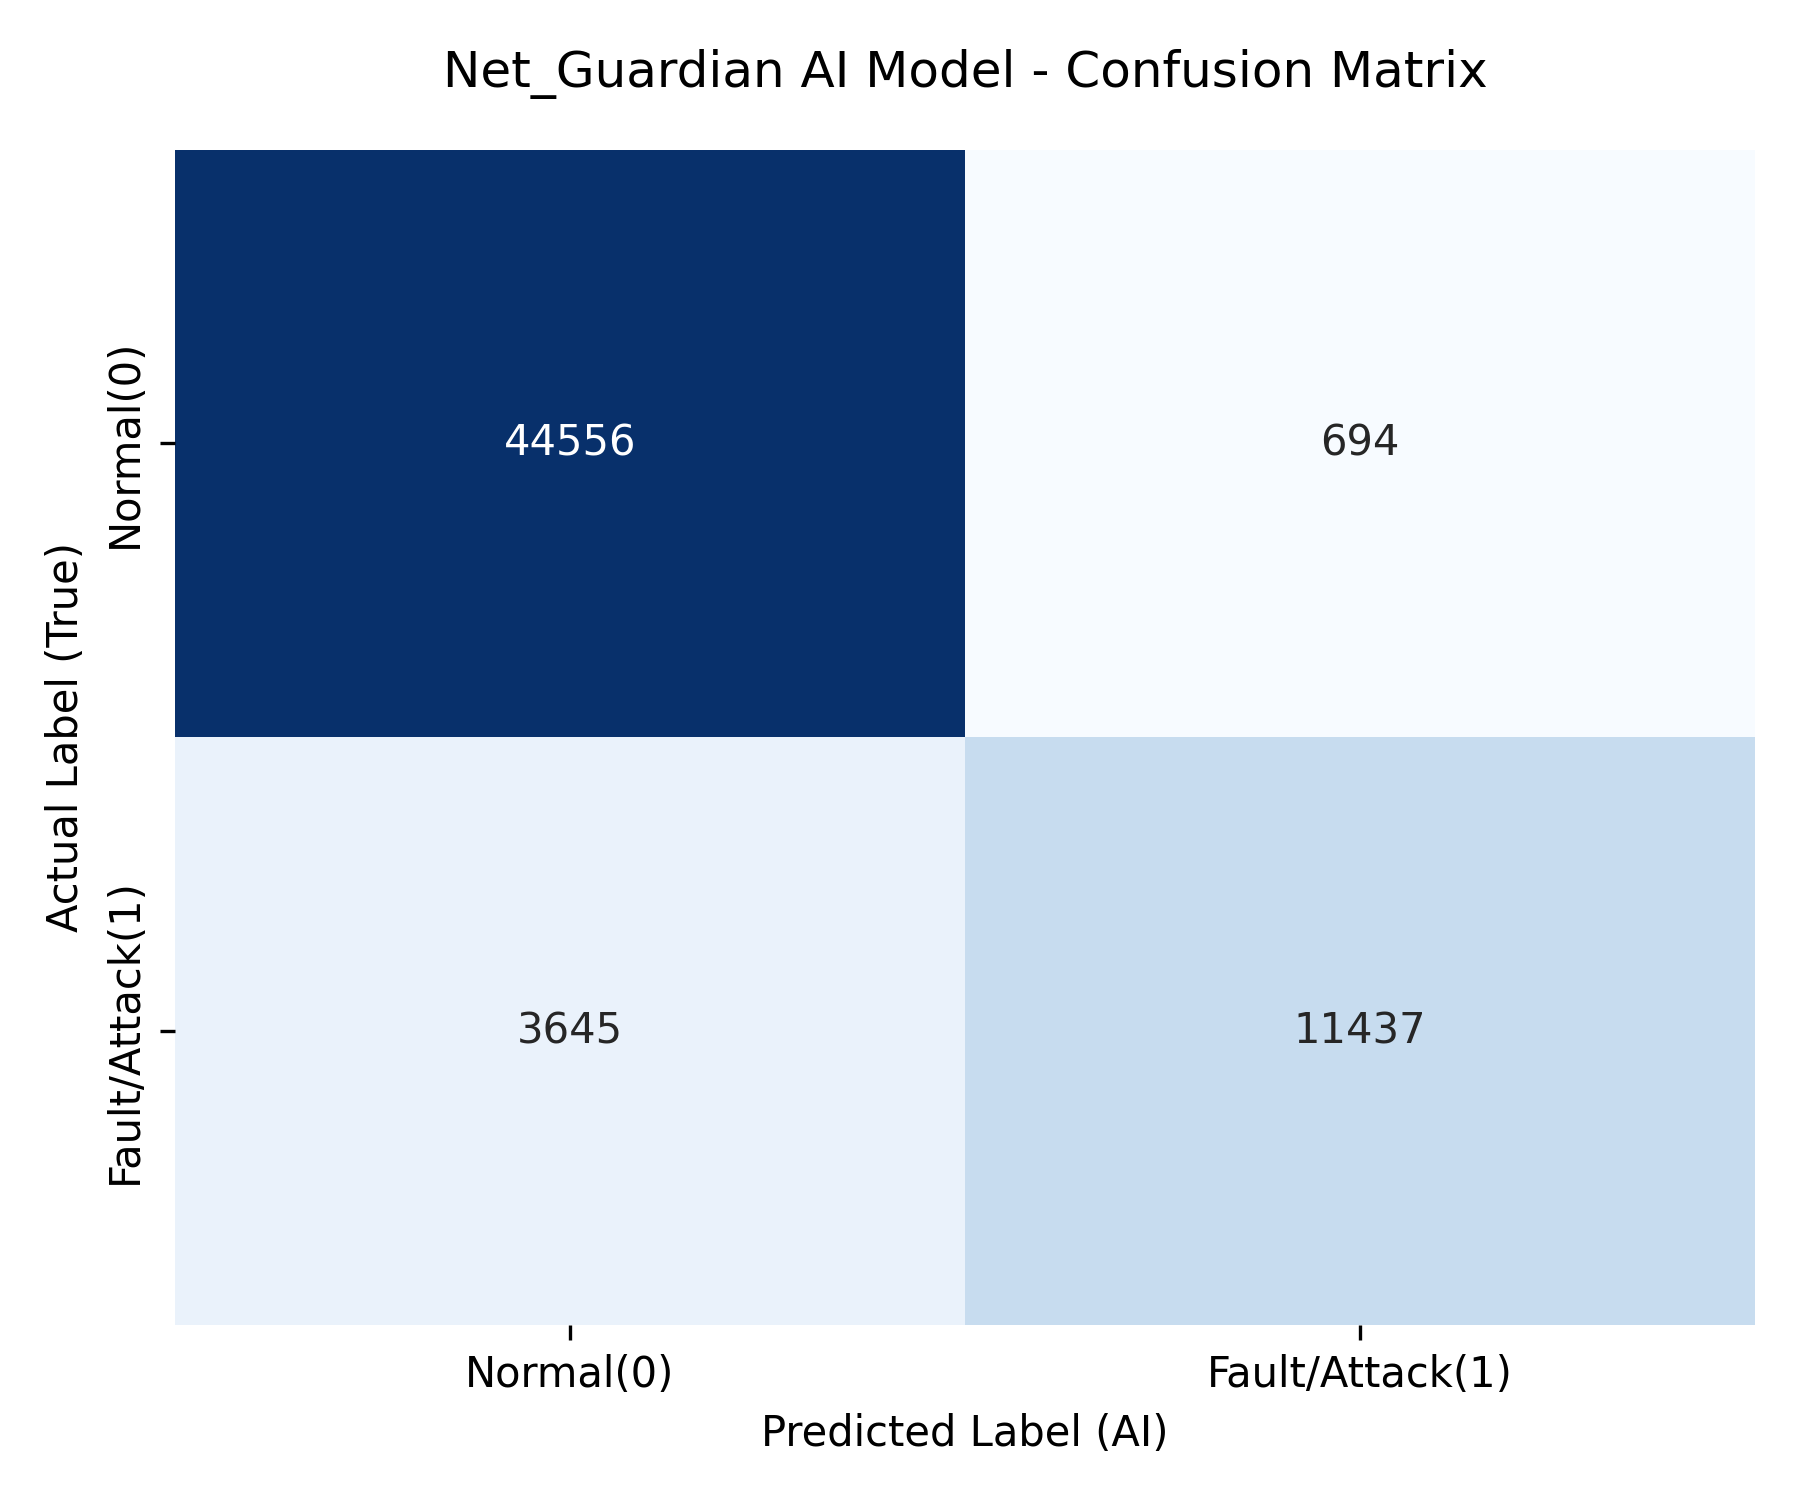
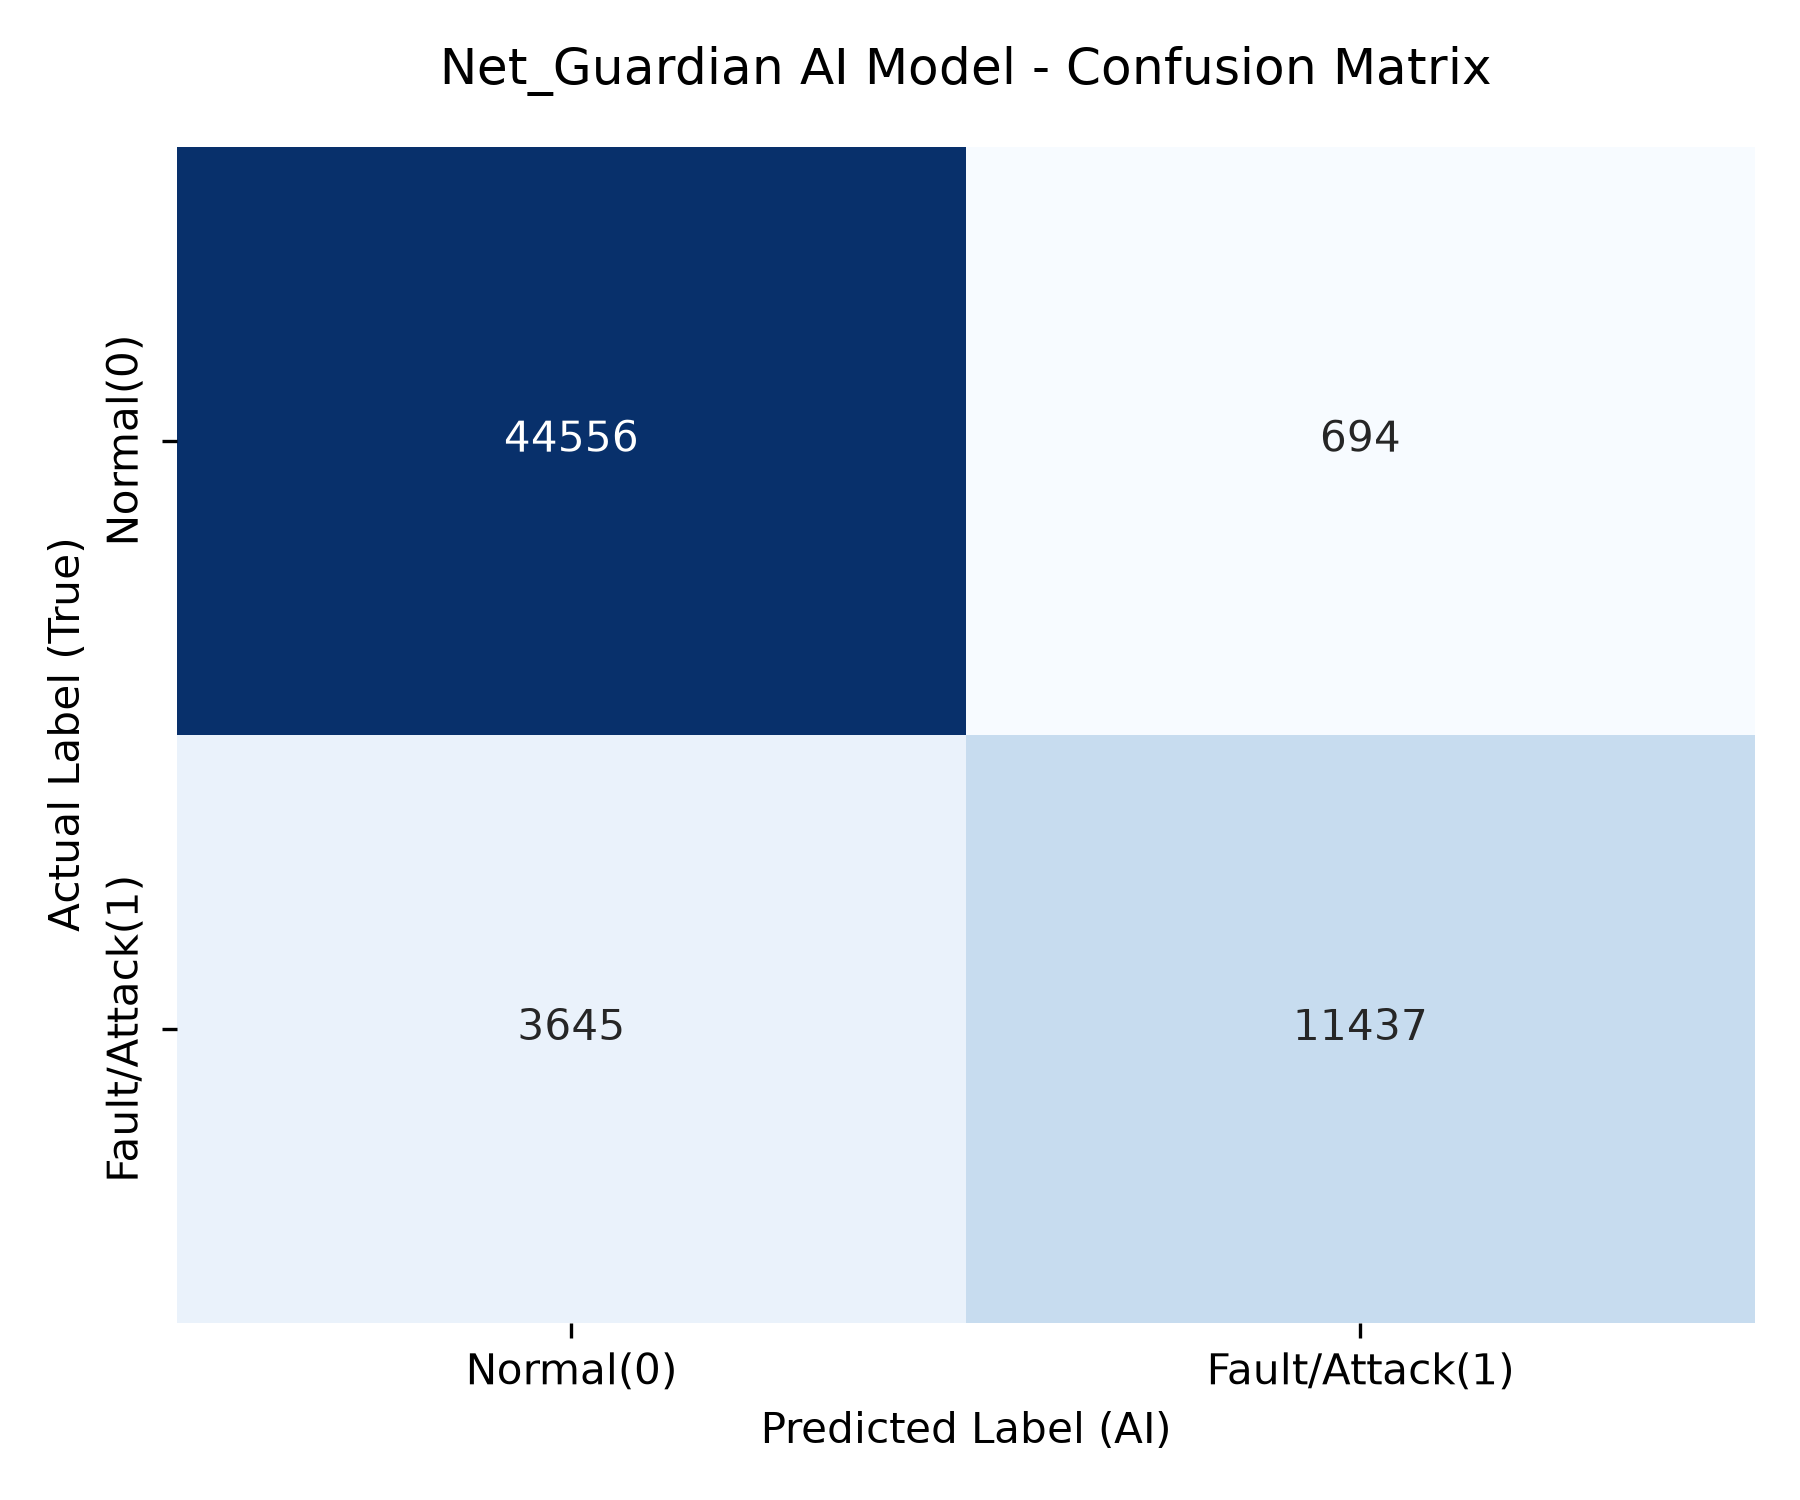
Fix UnicodeEncodeError crash in train_and_benchmark.py on Korean Windows console
"Single Latency (µs)" column header used U+00B5 (MICRO SIGN), which cp949
(default Windows Korean console codepage) can't encode. The crash happened
before benchmark_results.csv/rf_feature_importance.png were saved, so the
script silently failed to update its outputs on a stock Windows console.
Renamed to ASCII "us" to fix at the source.

Regenerated benchmark_results.csv (fresh run) and models/confusion_matrix.png
(re-verified evaluate.py still works post-merge).

diff --git a/train_and_benchmark.py b/train_and_benchmark.py
@@ -123,7 +123,7 @@ for name, model in models.items():
         "Accuracy (%)": round(acc * 100, 2),
         "Macro F1": round(f1, 4),
         "Train Time (ms)": round(train_time, 2),
-        "Single Latency (µs)": round(np.mean(sample_latencies), 2)
+        "Single Latency (us)": round(np.mean(sample_latencies), 2)
     })
     trained_models[name] = model
 
